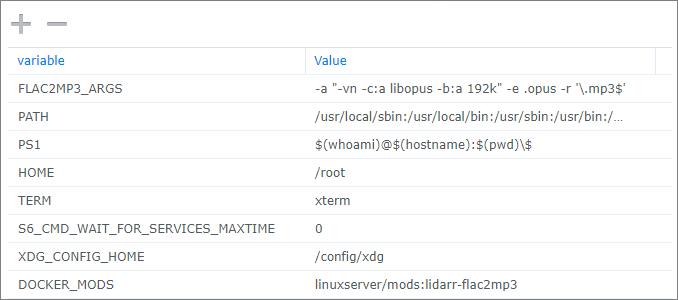
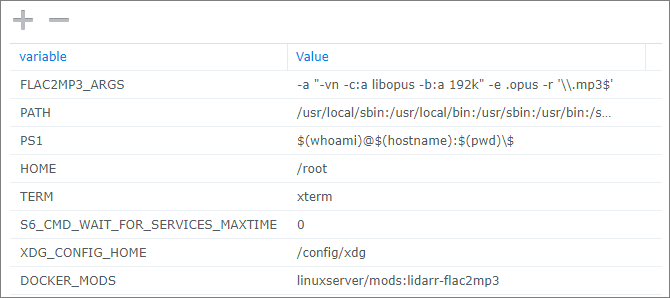
Release 2.4 candidate 1
- Added regex option
- Added environment variable option
- Updated exit codes
- Added checks for identical track name
- Added logging for skipped tracks
- Corrected some logging anomalies
- Updated README

diff --git a/README.md b/README.md
@@ -20,7 +20,7 @@ Production Container info: ![Docker Image Size](https://img.shields.io/docker/im
 2. Configure the Docker container with all the port, volume, and environment settings from the *original container documentation* here:  
   **[linuxserver/lidarr](https://hub.docker.com/r/linuxserver/lidarr "Docker container")**
    1. Add a **DOCKER_MODS** environment variable to the `docker run` command, as follows:  
-      - Dev/test release: `-e DOCKER_MODS=thecaptain989/lidarr-flac2mp3:latest`  
+      - Dev/test release: `-e DOCKER_MODS=thecaptain989/lidarr-flac2mp3:latest`
       - Stable release: `-e DOCKER_MODS=linuxserver/mods:lidarr-flac2mp3`
 
       *Example Docker CLI Configuration*  
@@ -63,7 +63,7 @@ By default, if you've configured Lidarr's **Recycle Bin** path correctly, the or
 ### Syntax
 >**Note:** The _Arguments_ field for Custom Scripts was removed in Lidarr release [v0.7.0.1347](https://github.com/lidarr/Lidarr/commit/b9d240924f8965ebb2c5e307e36b810ae076101e "Lidarr commit notes") due to security concerns.
 
-To supply arguments to the script, you **must** either use one of the [included wrapper scripts](./README.md#included-wrapper-scripts), create a [custom wrapper script](./README.md#example-wrapper-script), or set the `FLAC2MP3_ARGS` [environment variable](./README.md#environment-variable).
+To supply arguments to the script, you **must** either use one of the **[included wrapper scripts](./README.md#included-wrapper-scripts)**, create a **[custom wrapper script](./README.md#example-wrapper-script)**, or set the `FLAC2MP3_ARGS` **[environment variable](./README.md#environment-variable)**.
 
 #### Command Line Options and Arguments
 The script may be called with optional command line arguments.
@@ -78,12 +78,12 @@ Option|Argument|Description
 -d, --debug|\[\<level\>\]|Enables debug logging. Level is optional.<br/>Default of 1 (low).<br/>2 includes API and FFmpeg output.
 -b, --bitrate|\<bitrate\>|Sets the output quality in constant bits per second (CBR).<br/>Examples: 160k, 240k, 300000<br/>**Note:** May not be specified with `-v`, `-a`, or `-e`.
 -v, --quality|\<quality\>|Sets the output variable bit rate (VBR).<br/>Specify a value between 0 and 9, with 0 being the highest quality.<br/>See the [FFmpeg MP3 Encoding Guide](https://trac.ffmpeg.org/wiki/Encode/MP3) for more details.<br/>**Note:** May not be specified with `-b`, `-a`, or `-e`.
--a, --advanced|\"\<options\>\"|Advanced ffmpeg options.<br/>The specified `options` replace all script defaults and are sent directly to ffmpeg.<br/>The `options` value must be enclosed in quotes.<br/>See [FFmpeg Options](https://ffmpeg.org/ffmpeg.html#Options) for details on valid options, and [Guidelines for high quality audio encoding](https://trac.ffmpeg.org/wiki/Encode/HighQualityAudio) for suggested usage.<br/>**Note:** Requires the `-e` option to also be specified. May not be specified with `-v` or `-b`.<br/>![danger] **WARNING:** You must specify an audio codec (by including a `-c:a <codec>` ffmpeg option) or the resulting file will contain no audio!<br/>![danger] **WARNING:** Invalid `options` could result in script failure!
+-a, --advanced|\"\<options\>\"|Advanced ffmpeg options.<br/>The specified `options` replace all script defaults and are sent directly to ffmpeg.<br/>The `options` value must be enclosed in quotes.<br/>See [FFmpeg Options](https://ffmpeg.org/ffmpeg.html#Options) for details on valid options, and [Guidelines for high quality audio encoding](https://trac.ffmpeg.org/wiki/Encode/HighQualityAudio) for suggested usage.<br/>**Note:** Requires the `-e` option to also be specified. May not be specified with `-v` or `-b`.<br/>![warning] **WARNING:** You must specify an audio codec (by including a `-c:a <codec>` ffmpeg option) or the resulting file will contain no audio!<br/>![warning] **WARNING:** Invalid `options` could result in script failure!
 -e, --extension|\<extension\>|Sets the output file extension.<br/>The extension may be prefixed by a dot (".") or not.<br/>Example: .ogg<br/>**Note:** Requires the `-a` option to also be specified. May not be specified with `-v` or `-b`.
--f, --file|<audio_file>|If included, the script enters **[Batch Mode](./README.md#batch-mode)** and converts the specified audio file.<br/>![danger] **WARNING:** Do not use this argument when called from Lidarr!
+-f, --file|<audio_file>|If included, the script enters **[Batch Mode](./README.md#batch-mode)** and converts the specified audio file.<br/>![warning] **WARNING:** Do not use this argument when called from Lidarr!
 -o, --output|\<directory\>|Converted audio file(s) are saved to `directory` instead of being located in the same directory as the source audio file.<br/>The path will be created if it does not exist.
 -k, --keep-file| |Do not delete the source file or move it to the Lidarr Recycle bin.<br/>**Note:** This also disables triggering a Lidarr rescan after conversion.
--r, --regex|'\<regex\>'|Sets the regular expression used to select input files.<br/>The `regex` value should be enclosed in single quotes.<br/>Defaults to `'\.flac$'`.
+-r, --regex|'\<regex\>'|Sets the regular expression used to select input files.<br/>The `regex` value should be enclosed in single quotes and escaped properly.<br/>Defaults to `"\.flac$"`.
 --help| |Display help and exit.
 --version| |Display version and exit.
 
@@ -94,15 +94,29 @@ The `-a` option effectively makes the script a generic wrapper for ffmpeg.  FFmp
 
 The exact format of the executed ffmpeg command is:
 ```
-ffmpeg -loglevel error -i "input.flac" ${options} "output.${extension}"
+ffmpeg -loglevel error -nostdin -i "input.flac" ${options} "output.${extension}"
 ```
+
+#### Technical notes on regex
+By default, the script only matches and interacts with FLAC files (specifically, files ending in ".flac"). The `-r` option allows the script to match on a user specified regular expression (i.e. "regex") pattern. 
+
+Note that files are passed to the script with the full Linux path intact. (Ex: `/path/to/audio/a-ha/Hunting High and Low/01 Take on Me.mp3`).  Craft your regex with this in mind.
+
+![warning] **Note:** Escaping special regex characters (like a dot `.`) requires a double backslash, _even when single quoted!_ This is because **awk** (the program that processes audio files in the script) in most cases [strips a single backslash](https://www.gnu.org/software/gawk/manual/html_node/Escape-Sequences.html "GNU awk reference") from strings. Double quoted or unquoted strings require _four_ backslashes to preserve a regex escape because the bash shell will process the escapes first.
+
+For example, to convert all audio files to AAC audio files, use the following options:  
+```
+-a "-y -map 0 -c:a aac -b:a 240k -c:v copy" -e m4a --regex '\\.[^.]*$'
+```
+
+Regular expression syntax is beyond the scope of this document.  See this [tutorial](https://www.regular-expressions.info/tutorial.html "Regular Expressions Tutorial") for more information. Regex patterns may be tested [here](http://regexstorm.net/tester "regex tester").
 
 ### Examples
 ```
 -b 320k        # Output 320 kbit/s MP3 (non-VBR; same as default behavior)
 -v 0           # Output variable bitrate MP3, VBR 220-260 kbit/s
 -d -b 160k     # Enable debugging level 1, and output a 160 kbit/s MP3
--r '\.[^.]*$'  # Convert any file to MP3 (not just FLAC)
+-r '\\.[^.]*$' # Convert any file to MP3 (not just FLAC)
 -a "-c:v libtheora -map 0 -q:v 10 -c:a libopus -b:a 192k" -e .opus
                # Convert to Opus format, VBR 192 kbit/s, cover art, no overwright
 -a "-vn -c:a libopus -b:a 192K" -e .opus -r '\.mp3$'
@@ -149,19 +163,20 @@ The `flac2mp3.sh` script also allows the use of arguments provided by the `FLAC2
 
 For example, the following value would convert any .mp3 to Opus:
 ```
-FLAC2MP3_ARGS=-a "-vn -c:a libopus -b:a 192k" -e .opus -r '\.mp3$'
+-e FLAC2MP3_ARGS='-a "-vn -c:a libopus -b:a 192k" -e .opus -r "\\.mp3$"'
 ```
 
-Make sure to correctly escape special characters when using this method. In Docker Compose, the previous command would need an extra `$`:
+Make sure to correctly use quotes and/or escape special characters when using this method. (See [regex notes](./README.md#technical-notes-on-regex) above.)  
+In Docker Compose, the previous command would need an extra `$` to match the end-of-line:
 ```yaml
 environment:
-  - FLAC2MP3_ARGS=-a "-vn -c:a libopus -b:a 192k" -e .opus -r '\.mp3$$'
+  - FLAC2MP3_ARGS=-a "-vn -c:a libopus -b:a 192k" -e .opus -r '\\.mp3$$'
 ```
-
->**Note:** The environment variable settings are _only_ used when **no** command line arguments are present. **Any** command line argument will disable the use of the environment variable.
 
 *Example Synology Configuration*  
 ![flac2mp3](.assets/lidarr-synology-2.png "Synology container settings")
+
+>**Note:** The environment variable settings are _only_ used when **no** command line arguments are present. **Any** command line argument will disable the use of the environment variable.
 
 ### Triggers
 The only events/notification triggers that are supported are **On Release Import** and **On Upgrade**
